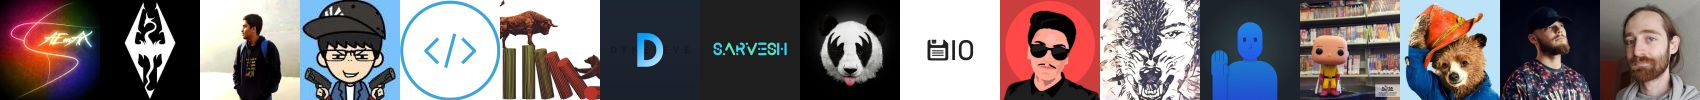
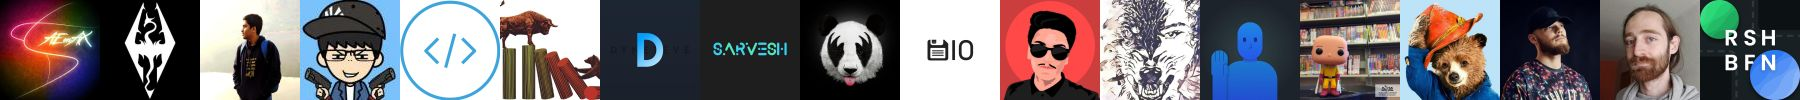
Update, Add RshBfn,  Add Eberhard

diff --git a/index.html b/index.html
@@ -42,7 +42,7 @@
 			"author": "AEonAX",
 			"about": "Miui Camera Port for Xiaomi's Devices running AOSP ROMS",
 			"permissions": "Camera",
-			"image": "https://camera.aeonax.com/images/icon.png"
+			"image": "https://camera.aeonax.com/images/icon2.png"
 		}
 	</script>
 	<script async src="https://www.googletagmanager.com/gtag/js?id=UA-136010089-1"></script>
@@ -65,7 +65,8 @@
 			enable_page_level_ads: true
 		});
 	</script>
-	<link rel="stylesheet" type="text/css" href="https://cdn.jsdelivr.net/npm/cookieconsent@3/build/cookieconsent.min.css" />
+	<link rel="stylesheet" type="text/css"
+		href="https://cdn.jsdelivr.net/npm/cookieconsent@3/build/cookieconsent.min.css" />
 </head>
 
 <body class="is-preload">
@@ -113,7 +114,7 @@
 
 		<section id="about" class="wrapper style2 fullscreen spotlights">
 			<section>
-				<a href="#" class="image"><img src="images/icon.png" alt="App Icon" data-position="center center" /></a>
+				<a href="#" class="image"><img src="images/icon2.png" alt="App Icon" data-position="center center" /></a>
 				<div class="content">
 					<div class="inner">
 						<h2>About</h2>
@@ -377,6 +378,13 @@
 						</div>
 					</section>
 					<section>
+						<div class="img team" style="background-position-x: -85em;"></div>
+						<div class="details">
+							<h2>RshBfn</h2>
+							<p>L'artista Icona Magnifico</p>
+						</div>
+					</section>
+					<section>
 						<div class="img spons" style="background-position-x: 0em;"></div>
 						<div class="details">
 							<h2>viSH</h2>
@@ -436,6 +444,13 @@
 						<div class="img spons" style="background-position-x: -40em;"></div>
 						<div class="details">
 							<h2>Sokha KH</h2>
+							<p>Sponsor</p>
+						</div>
+					</section>
+					<section>
+						<div class="img spons" style="background-position-x: -45em;"></div>
+						<div class="details">
+							<h2>Eberhard</h2>
 							<p>Sponsor</p>
 						</div>
 					</section>
@@ -661,8 +676,10 @@
 				<span>Addons enable additional features or improve compatibility.<br />
 					Mandatory Addons:<br />
 					'ANXCustlibs' for fixing portrait mode for few devices, <br />
-					'48MP Fix' for devices with/without 48MP, Includes MiuiLibs from Mi 9T [davinci], fixes portrait as well as low-res photos, <br />
-					Flash only one of the above not both, Don't Flash on OOS. If you have queries ask <a href="https://t.me/ANXMiuiCameraChat/">here</a><br /> <br />
+					'48MP Fix' for devices with/without 48MP, Includes MiuiLibs from Mi 9T [davinci], fixes portrait as
+					well as low-res photos, <br />
+					Flash only one of the above not both, Don't Flash on OOS. If you have queries ask <a
+						href="https://t.me/ANXMiuiCameraChat/">here</a><br /> <br />
 					'Custom Vendor Fix' for some devices with custom vendor,<br />
 					'Whyred Fix' for Whyred<br />
 				</span>
@@ -681,8 +698,38 @@
 						<tbody>
 							<tr>
 								<td>AEonAX</td>
+								<td>Vendor Libs for ANX V169, For All, Magisk/TWRP</td>
+								<td><a data-featherlight="iframe"
+										data-featherlight-iframe-style="display:block;border:none;height:500px;width:600px;max-width:100%"
+										href="https://www.pling.com/p/1321115/startdownload?file_id=1582294726&file_name=ANXVendorLibs_169.HonestAfraidGuineafowl.zip&file_type=application/zip&file_size=233198673"
+										target="_blank">ANXVendorLibs_169.HonestAfraidGuineafowl.zip</a>
+								</td>
+								<td><a href="https://public.androidport.site/anxmirror/169.singularity/ANXCameraUnity_169.HonestAfraidGuineafowl.zip"
+										target="_blank">APS1</a>, <a
+										href="https://sourceforge.net/projects/anxcamera/files/169.singularity/ANXCameraUnity_169.HonestAfraidGuineafowl.zip/download"
+										target="_blank">SFN2</a>
+								</td>
+							</tr>
+							<tr>
+								<td>AEonAX</td>
+								<td>ANXMimoji, For All, Magisk/TWRP</td>
+								<td><a data-featherlight="iframe"
+										data-featherlight-iframe-style="display:block;border:none;height:500px;width:600px;max-width:100%"
+										href="https://www.pling.com/p/1321115/startdownload?file_id=1582295146&file_name=ANXMimoji_169.HonestAfraidGuineafowl.zip&file_type=application/zip&file_size=68091259"
+										target="_blank">ANXMimoji_169.HonestAfraidGuineafowl.zip</a>
+								</td>
+								<td><a href="https://public.androidport.site/anxmirror/169.singularity/ANXMimoji_169.HonestAfraidGuineafowl.zip"
+										target="_blank">APS1</a>, <a
+										href="https://sourceforge.net/projects/anxcamera/files/169.singularity/ANXMimoji_169.HonestAfraidGuineafowl.zip/download"
+										target="_blank">SFN2</a>
+								</td>
+							</tr>
+							<tr>
+								<td>AEonAX</td>
 								<td>Vendor Libs for ANX V163, For All, Magisk/TWRP</td>
-								<td><a href="https://www.pling.com/p/1321115/startdownload?file_id=1577120842&file_name=ANXVendorLibs_163.JollyOverdueSakimonkey.zip&file_type=application/zip&file_size=93670593"
+								<td><a data-featherlight="iframe"
+										data-featherlight-iframe-style="display:block;border:none;height:500px;width:600px;max-width:100%"
+										href="https://www.pling.com/p/1321115/startdownload?file_id=1577120842&file_name=ANXVendorLibs_163.JollyOverdueSakimonkey.zip&file_type=application/zip&file_size=93670593"
 										target="_blank">ANXVendorLibs_163.JollyOverdueSakimonkey.zip</a>
 								</td>
 								<td><a href="https://public.androidport.site/anxmirror/163.singularity/ANXVendorLibs_163.JollyOverdueSakimonkey.zip"
@@ -694,7 +741,9 @@
 							<tr>
 								<td>AEonAX</td>
 								<td>ANXMimoji, For All, Magisk/TWRP</td>
-								<td><a href="https://www.pling.com/p/1321115/startdownload?file_id=1568555864&file_name=ANXMimoji_141.DarkorangeKindDikdik.zip&file_type=application/zip&file_size=68091256"
+								<td><a data-featherlight="iframe"
+										data-featherlight-iframe-style="display:block;border:none;height:500px;width:600px;max-width:100%"
+										href="https://www.pling.com/p/1321115/startdownload?file_id=1568555864&file_name=ANXMimoji_141.DarkorangeKindDikdik.zip&file_type=application/zip&file_size=68091256"
 										target="_blank">ANXMimoji_141.DarkorangeKindDikdik.zip</a>
 								</td>
 								<td><a href="https://public.androidport.site/anxmirror/141.singularity/ANXMimoji_141.DarkorangeKindDikdik.zip"
@@ -706,7 +755,9 @@
 							<tr>
 								<td>Noid</td>
 								<td>48MPFix For Q / ANXMiuiLibs For Q</td>
-								<td><a href="https://www.pling.com/p/1321115/startdownload?file_id=1575126107&file_name=48MPFixQ_160.DisloyalInnocentVelvetworm.zip&file_type=application/zip&file_size=3277064"
+								<td><a data-featherlight="iframe"
+										data-featherlight-iframe-style="display:block;border:none;height:500px;width:600px;max-width:100%"
+										href="https://www.pling.com/p/1321115/startdownload?file_id=1575126107&file_name=48MPFixQ_160.DisloyalInnocentVelvetworm.zip&file_type=application/zip&file_size=3277064"
 										target="_blank">48MPFixQ_160.DisloyalInnocentVelvetworm.zip</a>
 								</td>
 								<td><a href="https://public.androidport.site/anxmirror/160.singularity/48MPFixQ_160.DisloyalInnocentVelvetworm.zip"
@@ -718,7 +769,9 @@
 							<tr>
 								<td>AEonAX</td>
 								<td>ANXCustLibs For Q</td>
-								<td><a href="https://www.pling.com/p/1321115/startdownload?file_id=1575126191&file_name=ANXCustLibsQ_160.DisloyalInnocentVelvetworm.zip&file_type=application/zip&file_size=3107632"
+								<td><a data-featherlight="iframe"
+										data-featherlight-iframe-style="display:block;border:none;height:500px;width:600px;max-width:100%"
+										href="https://www.pling.com/p/1321115/startdownload?file_id=1575126191&file_name=ANXCustLibsQ_160.DisloyalInnocentVelvetworm.zip&file_type=application/zip&file_size=3107632"
 										target="_blank">ANXCustLibsQ_160.DisloyalInnocentVelvetworm.zip</a>
 								</td>
 								<td><a href="https://public.androidport.site/anxmirror/160.singularity/ANXCustLibsQ_160.DisloyalInnocentVelvetworm.zip"
@@ -730,7 +783,9 @@
 							<tr>
 								<td>Dyneteve</td>
 								<td>48MPFix For Pie / ANXMiuiLibs For Pie</td>
-								<td><a href="https://www.pling.com/p/1321115/startdownload?file_id=1575125521&file_name=48MPFixPie_150.InfiniteCostlyRedhead.zip&file_type=application/zip&file_size=3147430"
+								<td><a data-featherlight="iframe"
+										data-featherlight-iframe-style="display:block;border:none;height:500px;width:600px;max-width:100%"
+										href="https://www.pling.com/p/1321115/startdownload?file_id=1575125521&file_name=48MPFixPie_150.InfiniteCostlyRedhead.zip&file_type=application/zip&file_size=3147430"
 										target="_blank">48MPFixPie_150.InfiniteCostlyRedhead.zip</a>
 								</td>
 								<td><a href="https://public.androidport.site/anxmirror/150.singularity/48MPFixPie_150.InfiniteCostlyRedhead.zip"
@@ -742,7 +797,9 @@
 							<tr>
 								<td>AEonAX</td>
 								<td>ANXCustLibs For Pie</td>
-								<td><a href="https://www.pling.com/p/1321115/startdownload?file_id=1575125259&file_name=ANXCustLibsPie_150.InfiniteCostlyRedhead.zip&file_type=application/zip&file_size=14502779"
+								<td><a data-featherlight="iframe"
+										data-featherlight-iframe-style="display:block;border:none;height:500px;width:600px;max-width:100%"
+										href="https://www.pling.com/p/1321115/startdownload?file_id=1575125259&file_name=ANXCustLibsPie_150.InfiniteCostlyRedhead.zip&file_type=application/zip&file_size=14502779"
 										target="_blank">ANXCustLibsPie_150.InfiniteCostlyRedhead.zip</a>
 								</td>
 								<td><a href="https://public.androidport.site/anxmirror/150.singularity/ANXCustLibsPie_150.InfiniteCostlyRedhead.zip"
@@ -754,7 +811,9 @@
 							<tr>
 								<td>AEonAX</td>
 								<td>ANXRaphaelCustLibs For Pie</td>
-								<td><a href="https://www.pling.com/p/1321115/startdownload?file_id=1575125993&file_name=ANXRaphaelCustLibsPie_150.InfiniteCostlyRedhead.zip&file_type=application/zip&file_size=2810967"
+								<td><a data-featherlight="iframe"
+										data-featherlight-iframe-style="display:block;border:none;height:500px;width:600px;max-width:100%"
+										href="https://www.pling.com/p/1321115/startdownload?file_id=1575125993&file_name=ANXRaphaelCustLibsPie_150.InfiniteCostlyRedhead.zip&file_type=application/zip&file_size=2810967"
 										target="_blank">ANXRaphaelCustLibsPie_150.InfiniteCostlyRedhead.zip</a>
 								</td>
 								<td><a href="https://public.androidport.site/anxmirror/150.singularity/ANXRaphaelCustLibsPie_150.InfiniteCostlyRedhead.zip"
@@ -766,7 +825,9 @@
 							<tr>
 								<td>AEonAX</td>
 								<td>ANXCustLibs Pie, For Dipper/Polaris on P3R</td>
-								<td><a href="https://www.pling.com/p/1321115/startdownload?file_id=1568555736&file_name=ANXCustLibs_141.DarkorangeKindDikdik.zip&file_type=application/zip&file_size=11052627"
+								<td><a data-featherlight="iframe"
+										data-featherlight-iframe-style="display:block;border:none;height:500px;width:600px;max-width:100%"
+										href="https://www.pling.com/p/1321115/startdownload?file_id=1568555736&file_name=ANXCustLibs_141.DarkorangeKindDikdik.zip&file_type=application/zip&file_size=11052627"
 										target="_blank">ANXCustLibs_141.DarkorangeKindDikdik.zip</a>
 								</td>
 								<td><a href="https://public.androidport.site/anxmirror/141.singularity/ANXCustLibs_141.DarkorangeKindDikdik.zip"
@@ -778,7 +839,9 @@
 							<tr>
 								<td>AEonAX, Luffitys</td>
 								<td>ANXCamCustVendFix Pie, For Poco, Magisk/TWRP</td>
-								<td><a href="https://www.pling.com/p/1321115/startdownload?file_id=1568555569&file_name=ANXCamCustVendFix_133.WeeNecessarySolenodon.zip&file_type=application/zip&file_size=2104348"
+								<td><a data-featherlight="iframe"
+										data-featherlight-iframe-style="display:block;border:none;height:500px;width:600px;max-width:100%"
+										href="https://www.pling.com/p/1321115/startdownload?file_id=1568555569&file_name=ANXCamCustVendFix_133.WeeNecessarySolenodon.zip&file_type=application/zip&file_size=2104348"
 										target="_blank">ANXCamCustVendFix_133.WeeNecessarySolenodon.zip</a>
 								</td>
 								<td><a href="https://public.androidport.site/anxmirror/133.singularity/ANXCamCustVendFix_133.WeeNecessarySolenodon.zip"
@@ -790,7 +853,9 @@
 							<tr>
 								<td>Argraur</td>
 								<td>ANXCamCustVendFix, For Mi8/Mix2s running P3R Only, Magisk/TWRP</td>
-								<td><a href="https://www.pling.com/p/1321115/startdownload?file_id=1568555569&file_name=ANXCamCustVendFix_133.WeeNecessarySolenodon.zip&file_type=application/zip&file_size=2104348"
+								<td><a data-featherlight="iframe"
+										data-featherlight-iframe-style="display:block;border:none;height:500px;width:600px;max-width:100%"
+										href="https://www.pling.com/p/1321115/startdownload?file_id=1568555569&file_name=ANXCamCustVendFix_133.WeeNecessarySolenodon.zip&file_type=application/zip&file_size=2104348"
 										target="_blank">ANXCamCustVendFix_133.WeeNecessarySolenodon.zip</a>
 								</td>
 								<td><a href="https://public.androidport.site/anxmirror/133.singularity/ANXCamCustVendFix_133.WeeNecessarySolenodon.zip"
@@ -802,7 +867,9 @@
 							<tr>
 								<td>Dyneteve</td>
 								<td>48MPFix, For Violet and other 48MP Devices, Magisk/TWRP</td>
-								<td><a href="https://www.pling.com/p/1321115/startdownload?file_id=1568555287&file_name=Dyneteve48MPFix_127.BabyishStarchyWaterbuck.zip&file_type=application/zip&file_size=3054317"
+								<td><a data-featherlight="iframe"
+										data-featherlight-iframe-style="display:block;border:none;height:500px;width:600px;max-width:100%"
+										href="https://www.pling.com/p/1321115/startdownload?file_id=1568555287&file_name=Dyneteve48MPFix_127.BabyishStarchyWaterbuck.zip&file_type=application/zip&file_size=3054317"
 										target="_blank">Dyneteve48MPFix_127.BabyishStarchyWaterbuck.zip</a>
 								</td>
 								<td><a href="https://public.androidport.site/anxmirror/127.singularity/Dyneteve48MPFix_127.BabyishStarchyWaterbuck.zip"
@@ -814,7 +881,9 @@
 							<tr>
 								<td>Kubil Hadinata</td>
 								<td>WhyRed Fix, For Whyred, Magisk/TWRP</td>
-								<td><a href="https://www.pling.com/p/1321115/startdownload?file_id=1568555655&file_name=KubilWhyredyFix_117.MagentaDifferentWalrus.zip&file_type=application/zip&file_size=36829654"
+								<td><a data-featherlight="iframe"
+										data-featherlight-iframe-style="display:block;border:none;height:500px;width:600px;max-width:100%"
+										href="https://www.pling.com/p/1321115/startdownload?file_id=1568555655&file_name=KubilWhyredyFix_117.MagentaDifferentWalrus.zip&file_type=application/zip&file_size=36829654"
 										target="_blank">KubilWhyredyFix_117.MagentaDifferentWalrus.zip</a>
 								</td>
 								<td><a href="https://public.androidport.site/anxmirror/117.singularity/KubilWhyredyFix_117.MagentaDifferentWalrus.zip"
@@ -875,23 +944,23 @@
 	<script src="assets/js/util.js"></script>
 	<script src="assets/js/main.js"></script>
 	<script src="https://cdn.jsdelivr.net/npm/cookieconsent@3/build/cookieconsent.min.js" data-cfasync="false"></script>
-<script>
-window.cookieconsent.initialise({
-  "palette": {
-    "popup": {
-      "background": "#343c66",
-      "text": "#cfcfe8"
-    },
-    "button": {
-      "background": "#f71559"
-    }
-  },
-  "theme": "edgeless",
-  "content": {
-    "message": "This website uses 3rdParty cookies to analyze traffic to this site and for serving personalized ads"
-  }
-});
-</script>
+	<script>
+		window.cookieconsent.initialise({
+			"palette": {
+				"popup": {
+					"background": "#343c66",
+					"text": "#cfcfe8"
+				},
+				"button": {
+					"background": "#f71559"
+				}
+			},
+			"theme": "edgeless",
+			"content": {
+				"message": "This website uses 3rdParty cookies to analyze traffic to this site and for serving personalized ads"
+			}
+		});
+	</script>
 </body>
 
 </html>
